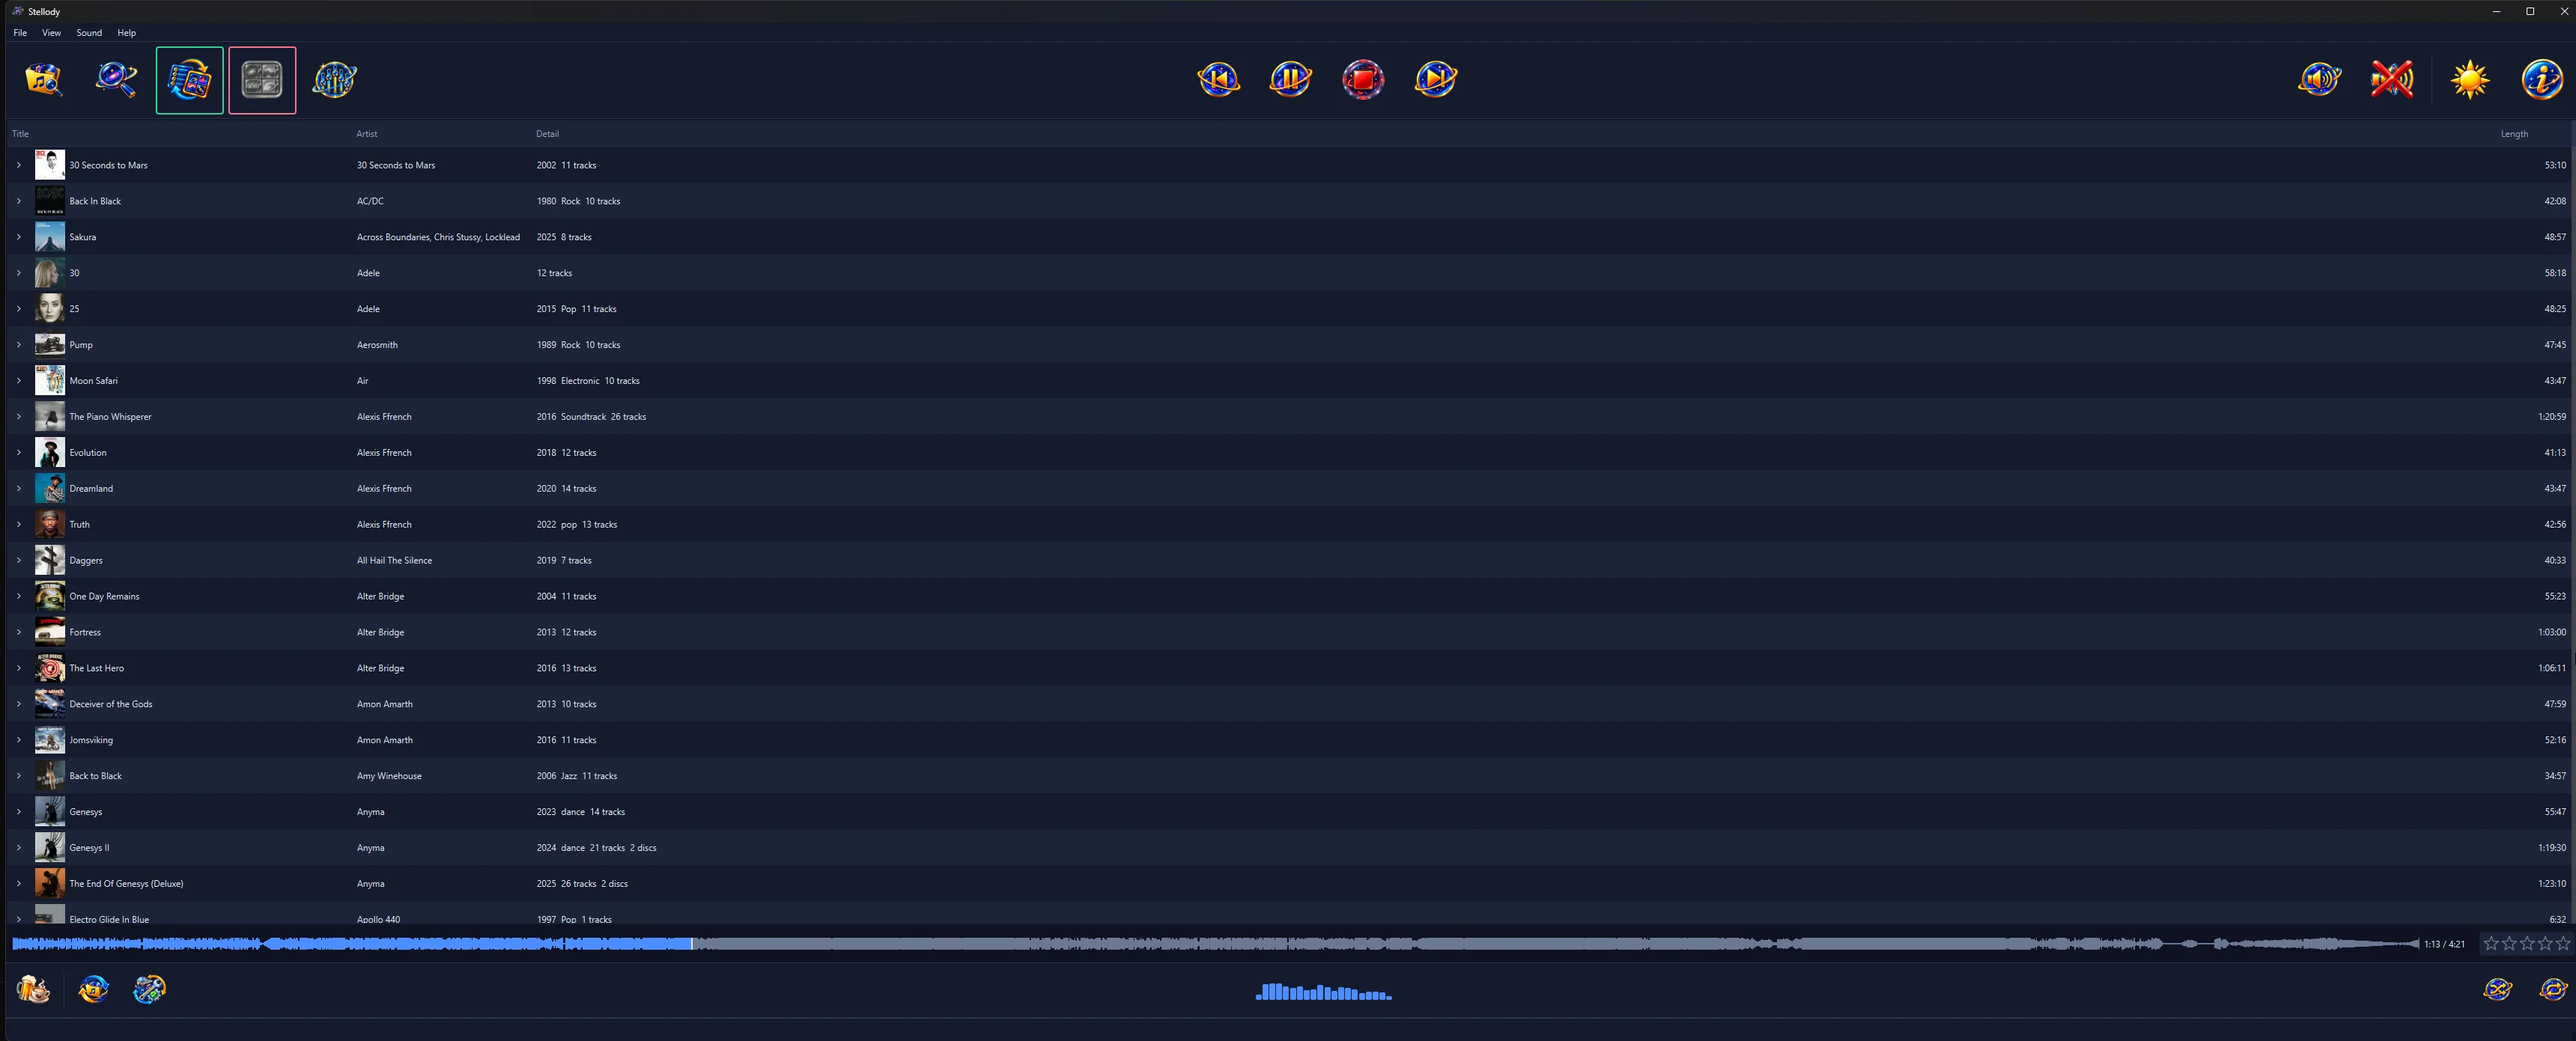
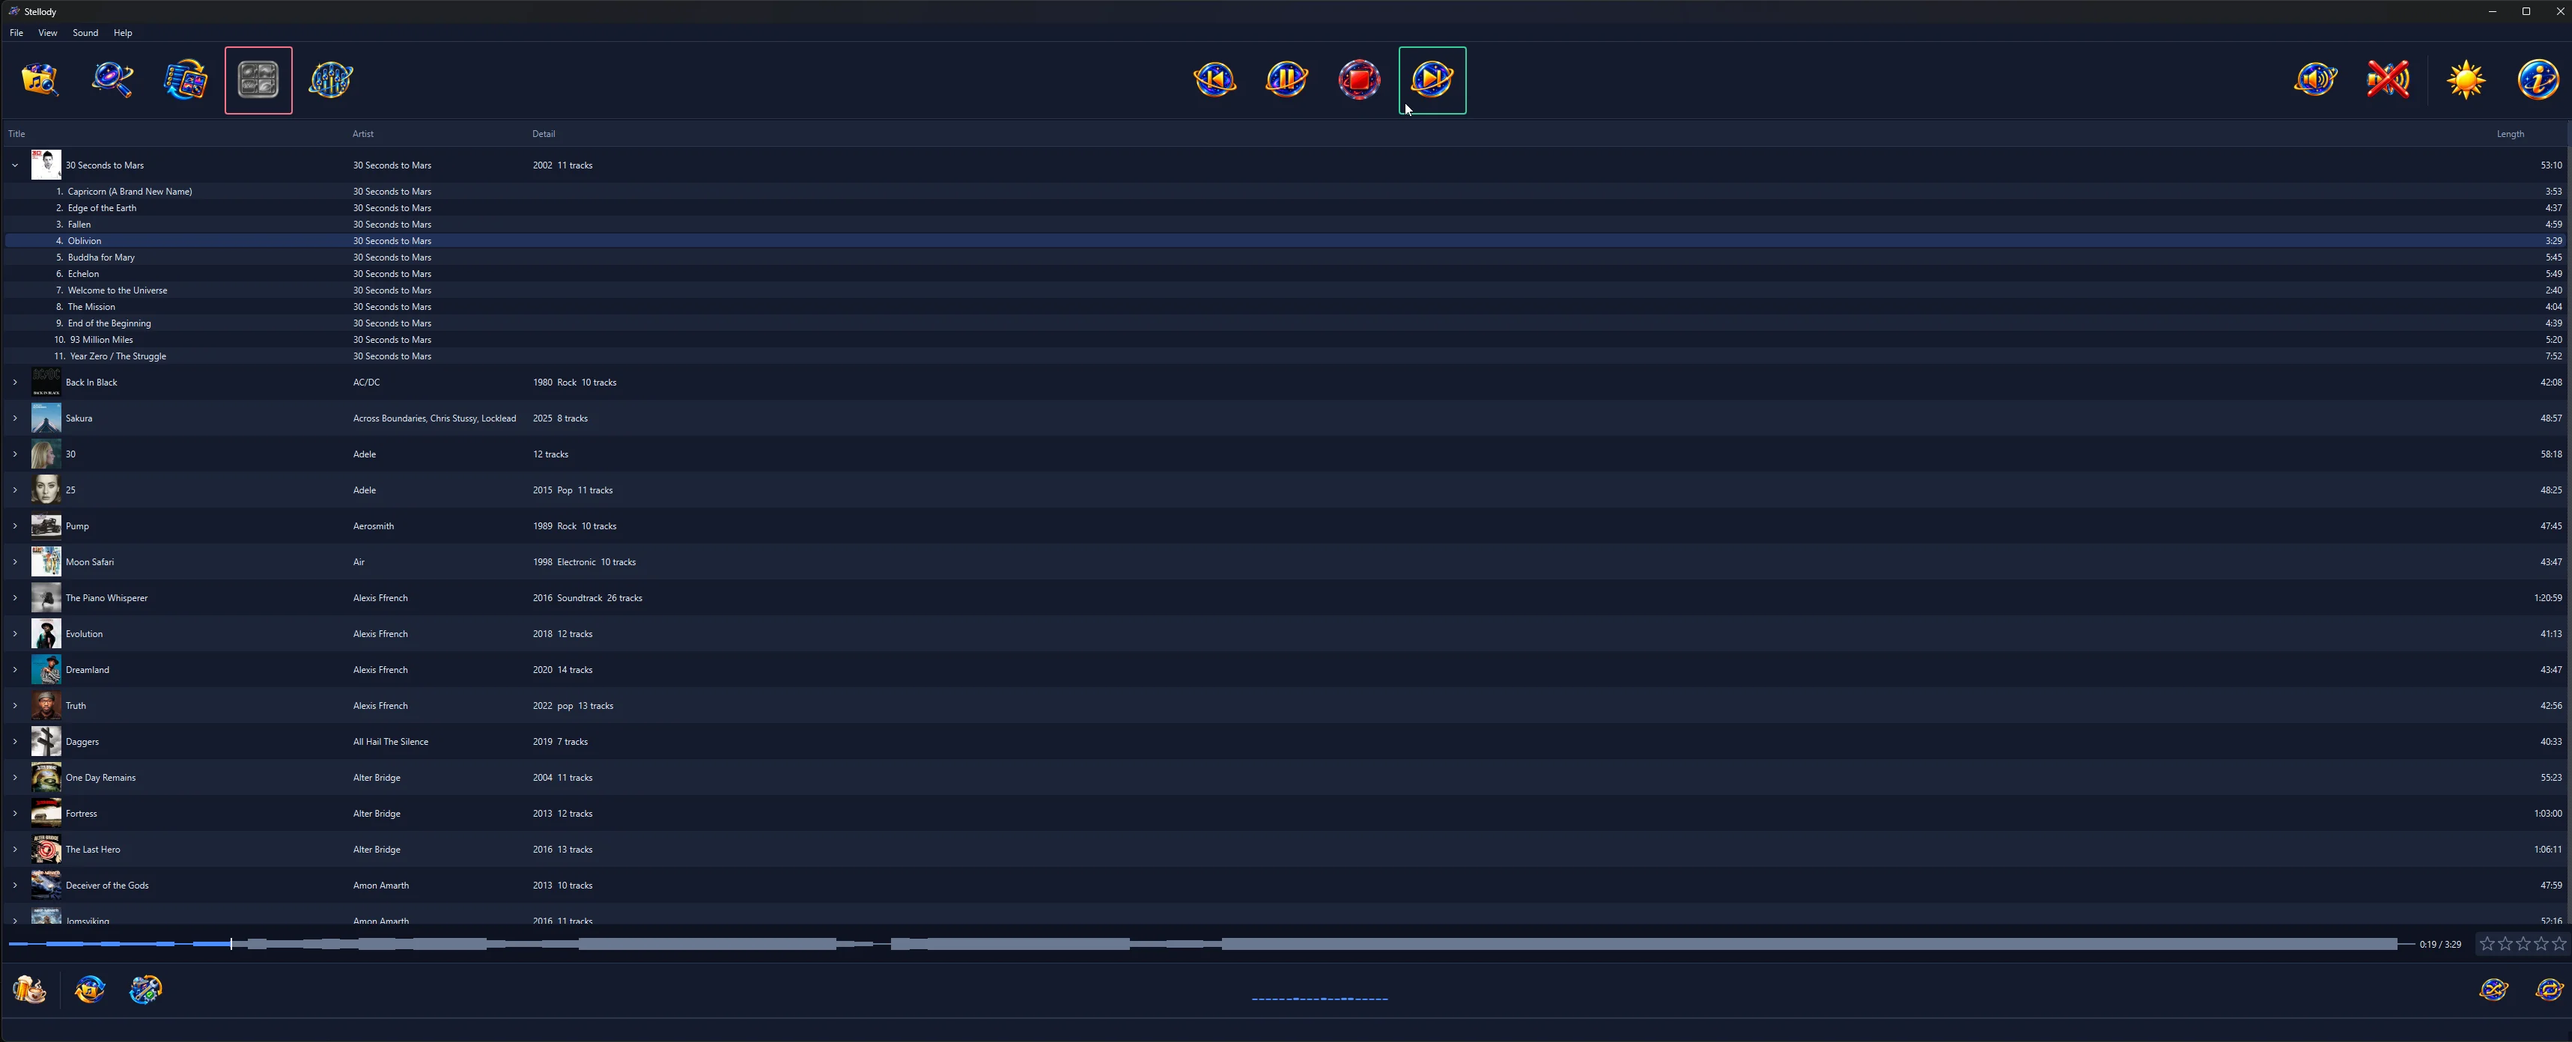
Take the replacement list view shot onto the site
The new one opens the top album out to show its tracks with the playing one picked out along its row, which the alt text now describes rather than the flat list it used to be. Carried across to WebP at 125 KB from 284 KB, keeping the filename the page asks for.

Both pictures also state their own dimensions now. The pages declared one size for two shots that are not quite the same shape, so each was being drawn very slightly out of its own aspect.

diff --git a/docs/index.html b/docs/index.html
@@ -101,7 +101,7 @@
 
   <div class="hero-shot fade d4">
     <div class="shot">
-      <img src="screenshots/stellody1.webp" width="1720" height="696" alt="Stellody showing a grid of album sleeves, with BT's Emotional Technology opened in a pane beneath it: its title, artist and year above a four star album rating, then its tracks running down two columns with their lengths. The status line names the track playing. The equalizer button sits with the view controls at the left of the top tray; the waveform bar runs along the bottom and the spectrum display moves in the middle of the strip below it.">
+      <img src="screenshots/stellody1.webp" width="1720" height="695" alt="Stellody showing a grid of album sleeves, with BT's Emotional Technology opened in a pane beneath it: its title, artist and year above a four star album rating, then its tracks running down two columns with their lengths. The status line names the track playing. The equalizer button sits with the view controls at the left of the top tray; the waveform bar runs along the bottom and the spectrum display moves in the middle of the strip below it.">
     </div>
     <p class="shot-caption">Click a cover to open the album underneath it. The rest of your collection stays exactly where it was.</p>
   </div>

diff --git a/docs/features.html b/docs/features.html
@@ -158,7 +158,7 @@
     </div>
   </div>
   <div class="shot" style="margin-top:2.5rem;">
-    <img src="screenshots/stellody2.webp" width="1720" height="696" alt="Stellody's list view: one row per album with its cover, its artist, then a detail column giving the year, genre, track count and disc count, with the length at the right. The spectrum display moves in the middle of the bottom strip while a track plays.">
+    <img src="screenshots/stellody2.webp" width="1718" height="696" alt="Stellody's list view: one row per album with its cover, its artist, then a detail column giving the year, genre, track count and disc count, with the length at the right. The top album is opened out to show its eleven tracks with their own lengths, the one playing picked out along its row. The waveform of that track runs along the bottom and the spectrum display moves in the middle of the strip below it.">
   </div>
   <p class="shot-caption">The list view, with the play controls across the top and your settings along the bottom.</p>
 </section>
